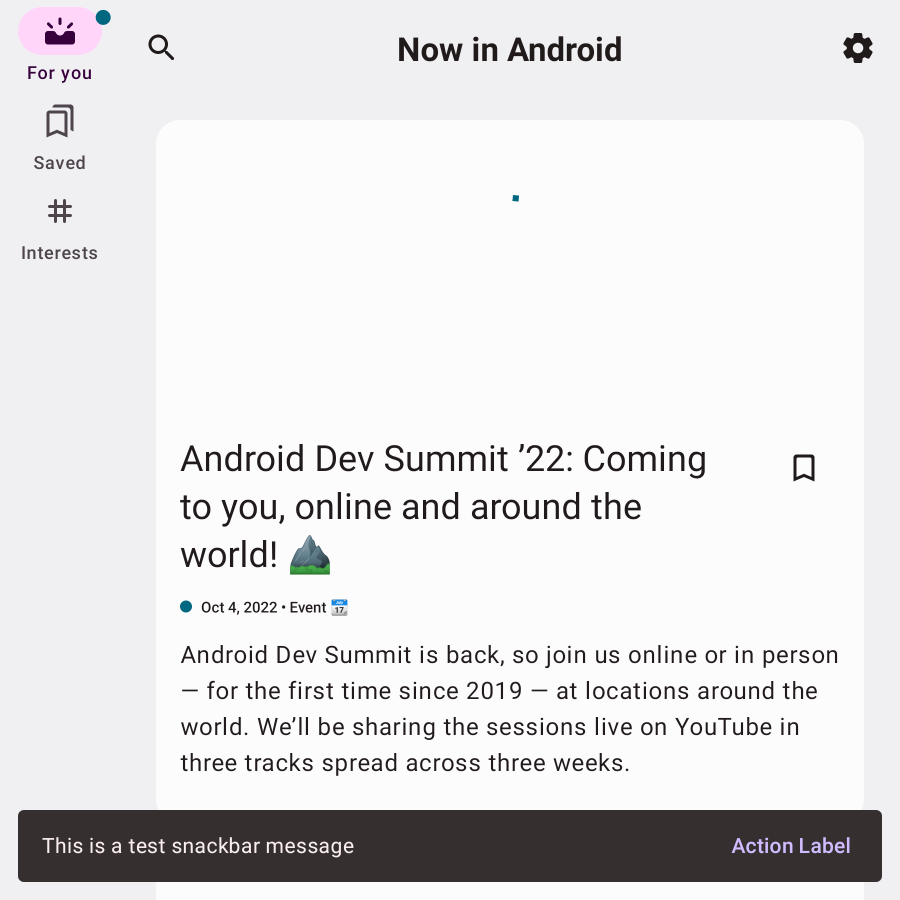
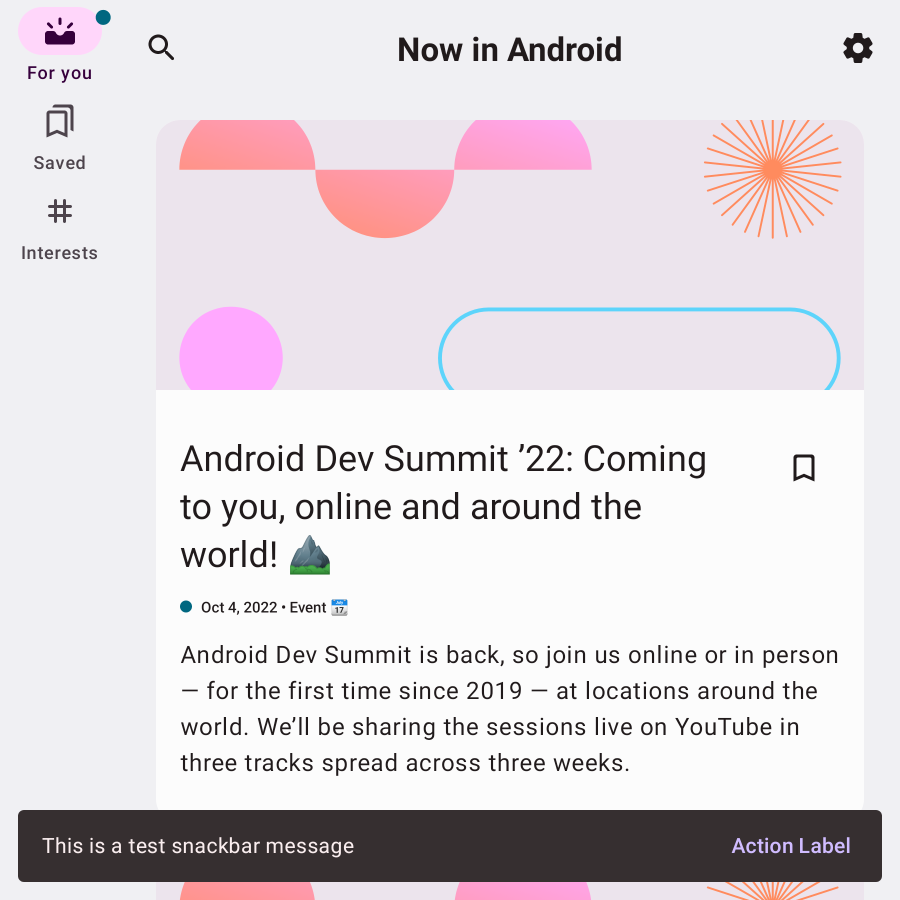
Uses unused test module and enables LocalInspection

diff --git a/app/src/testDemo/kotlin/com/google/samples/apps/nowinandroid/ui/SnackbarScreenshotTests.kt b/app/src/testDemo/kotlin/com/google/samples/apps/nowinandroid/ui/SnackbarScreenshotTests.kt
@@ -21,7 +21,9 @@ import androidx.compose.material3.SnackbarDuration.Indefinite
 import androidx.compose.material3.SnackbarHostState
 import androidx.compose.material3.windowsizeclass.ExperimentalMaterial3WindowSizeClassApi
 import androidx.compose.material3.windowsizeclass.WindowSizeClass
+import androidx.compose.runtime.CompositionLocalProvider
 import androidx.compose.runtime.rememberCoroutineScope
+import androidx.compose.ui.platform.LocalInspectionMode
 import androidx.compose.ui.test.DeviceConfigurationOverride
 import androidx.compose.ui.test.ForcedSize
 import androidx.compose.ui.test.junit4.createAndroidComposeRule
@@ -191,22 +193,27 @@ class SnackbarScreenshotTests {
     ) {
         lateinit var scope: CoroutineScope
         composeTestRule.setContent {
-            scope = rememberCoroutineScope()
-
-            DeviceConfigurationOverride(
-                DeviceConfigurationOverride.ForcedSize(DpSize(width, height)),
+            CompositionLocalProvider(
+                // Replaces images with placeholders
+                LocalInspectionMode provides true,
             ) {
-                BoxWithConstraints {
-                    val appState = rememberNiaAppState(
-                        windowSizeClass = WindowSizeClass.calculateFromSize(
-                            DpSize(maxWidth, maxHeight),
-                        ),
-                        networkMonitor = networkMonitor,
-                        userNewsResourceRepository = userNewsResourceRepository,
-                        timeZoneMonitor = timeZoneMonitor,
-                    )
-                    NiaTheme {
-                        NiaApp(appState, snackbarHostState, false, {}, {})
+                scope = rememberCoroutineScope()
+
+                DeviceConfigurationOverride(
+                    DeviceConfigurationOverride.ForcedSize(DpSize(width, height)),
+                ) {
+                    BoxWithConstraints {
+                        val appState = rememberNiaAppState(
+                            windowSizeClass = WindowSizeClass.calculateFromSize(
+                                DpSize(maxWidth, maxHeight),
+                            ),
+                            networkMonitor = networkMonitor,
+                            userNewsResourceRepository = userNewsResourceRepository,
+                            timeZoneMonitor = timeZoneMonitor,
+                        )
+                        NiaTheme {
+                            NiaApp(appState, snackbarHostState, false, {}, {})
+                        }
                     }
                 }
             }

diff --git a/sync/sync-test/src/main/kotlin/com/google/samples/apps/nowinandroid/core/sync/test/TestSyncModule.kt b/sync/sync-test/src/main/kotlin/com/google/samples/apps/nowinandroid/core/sync/test/TestSyncModule.kt
@@ -18,6 +18,8 @@ package com.google.samples.apps.nowinandroid.core.sync.test
 
 import com.google.samples.apps.nowinandroid.core.data.util.SyncManager
 import com.google.samples.apps.nowinandroid.sync.di.SyncModule
+import com.google.samples.apps.nowinandroid.sync.status.StubSyncSubscriber
+import com.google.samples.apps.nowinandroid.sync.status.SyncSubscriber
 import dagger.Binds
 import dagger.Module
 import dagger.hilt.components.SingletonComponent
@@ -33,4 +35,9 @@ internal interface TestSyncModule {
     fun bindsSyncStatusMonitor(
         syncStatusMonitor: NeverSyncingSyncManager,
     ): SyncManager
+
+    @Binds
+    fun bindsSyncSubscriber(
+        syncSubscriber: StubSyncSubscriber,
+    ): SyncSubscriber
 }
